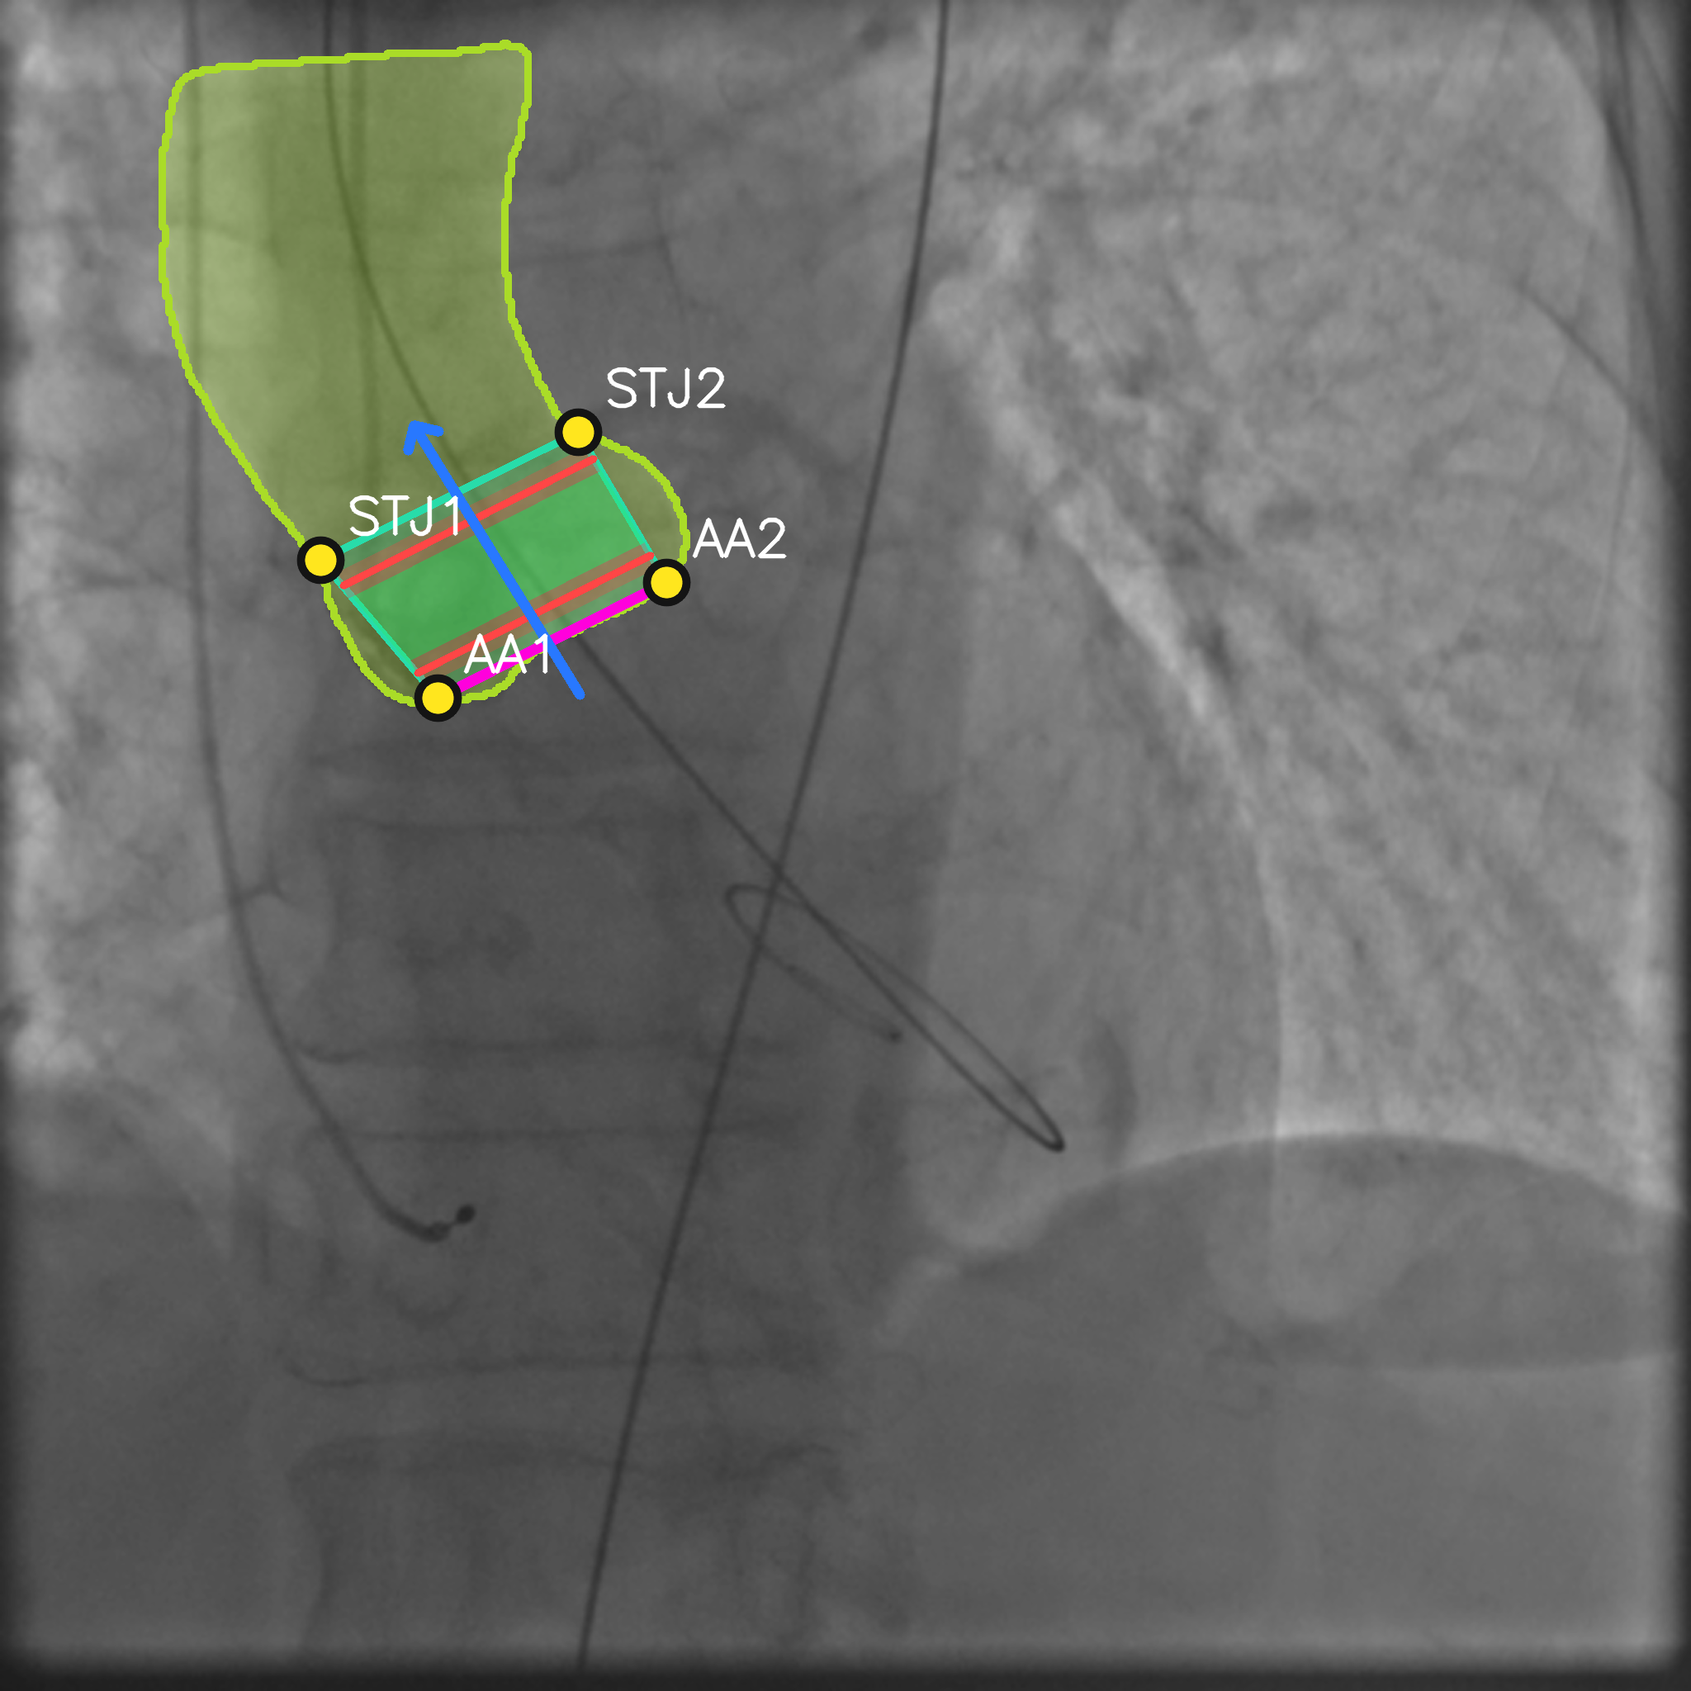
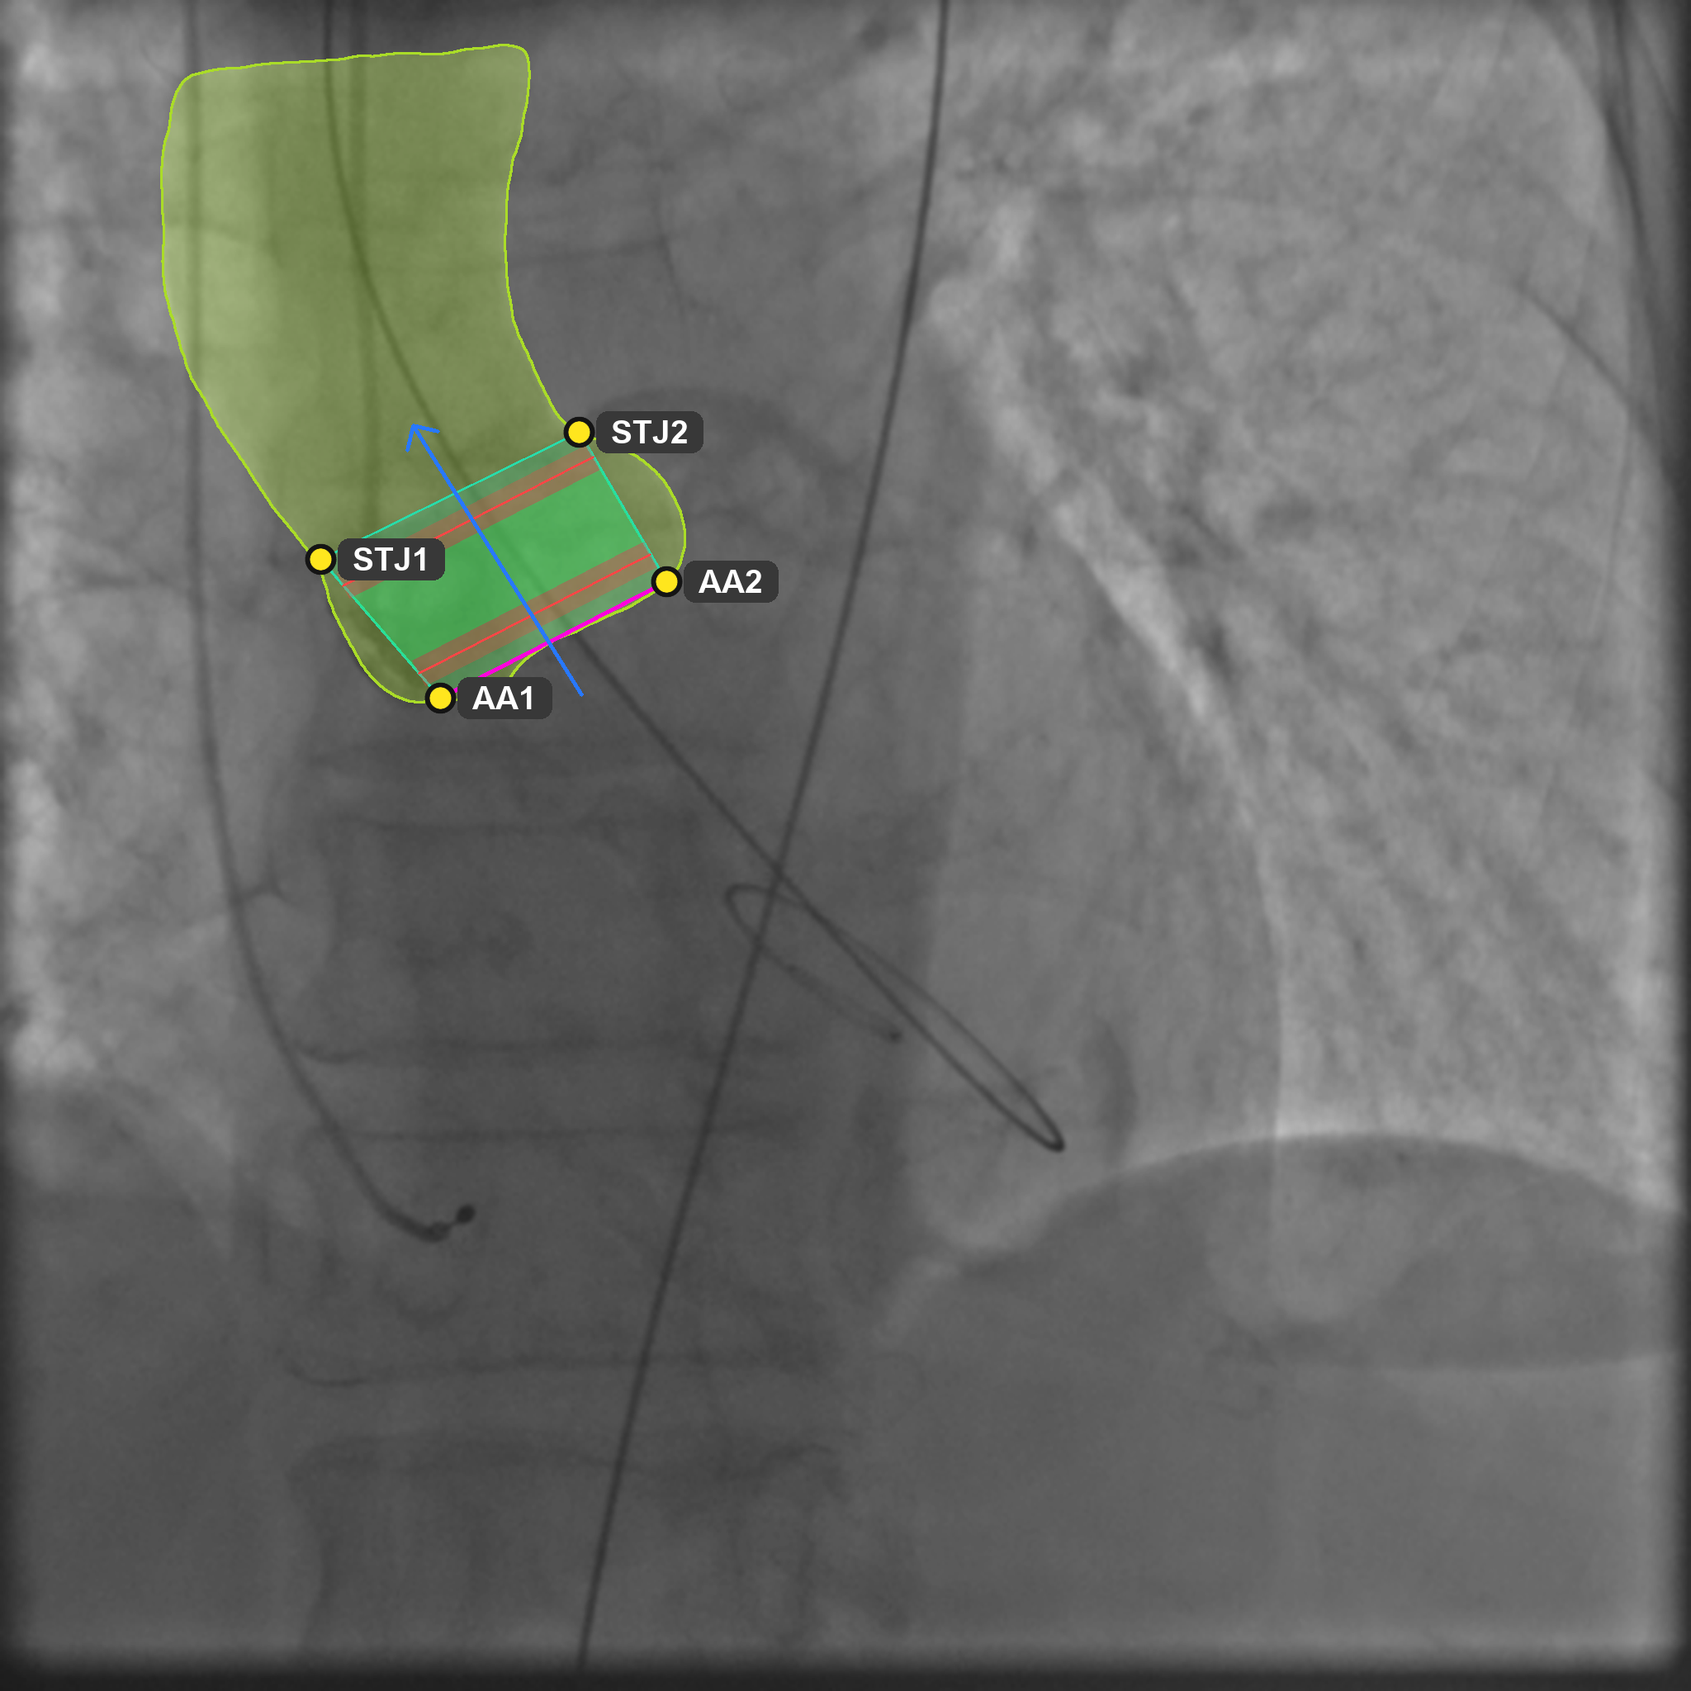
fix front figures 1 and 3

diff --git a/publication/scripts/generate_samples.py b/publication/scripts/generate_samples.py
@@ -28,23 +28,26 @@ DEFAULT_EXPORT_SIZE = None
 # Цвета из meta.json (Supervisely)
 CLASS_COLORS = {
     "mask": "#49BC4E",
-    "AA1": "#AEFF01",
-    "AA2": "#AEFF01",
-    "STJ1": "#AEFF01",
-    "STJ2": "#AEFF01",
+    "AA1": "#FFE61E",
+    "AA2": "#FFE61E",
+    "STJ1": "#FFE61E",
+    "STJ2": "#FFE61E",
 }
 
 # Стиль бейджей Supervisely
-BADGE_BG = (50, 50, 50, 200)       # тёмно-серый фон с прозрачностью
-BADGE_RADIUS = 3                    # скругление углов
-BADGE_PADDING_X = 6                 # горизонтальный отступ
-BADGE_PADDING_Y = 3                 # вертикальный отступ
-BADGE_ICON_SIZE = 8                 # размер иконки (треугольник из 3 точек)
-BADGE_ICON_GAP = 5                  # отступ между иконкой и текстом
-BADGE_FONT_SIZE = 12                # размер шрифта
-POINT_RADIUS = 4                    # радиус точки-аннотации
-MASK_CONTOUR_WIDTH = 2              # толщина контура маски
-MASK_FILL_OPACITY = 100             # прозрачность заливки маски (~0.39)
+POINT_RADIUS = 6
+BADGE_FONT_SIZE = 44
+BADGE_RADIUS = 4
+BADGE_PADDING_X = 8
+BADGE_PADDING_Y = 4
+BADGE_BG = (56, 56, 56, 208)
+BADGE_TEXT_COLOR = (255, 255, 255, 255)
+BADGE_ICON_SIZE = 14
+BADGE_ICON_GAP = 5
+MASK_FILL_OPACITY = 56
+MASK_CONTOUR_WIDTH = 2
+POINT_OUTLINE_WIDTH = 2
+POINT_OUTLINE_COLOR = (20, 20, 20, 255)
 
 
 def hex_to_rgb(hex_color):
@@ -64,16 +67,44 @@ def scale_px(value, render_scale, minimum=1):
     return max(minimum, int(round(value * render_scale)))
 
 
+def clamp_px(value, minimum=1, maximum=None):
+    px = int(round(value))
+    if maximum is not None:
+        px = min(px, maximum)
+    return max(minimum, px)
+
+
 def load_font(font_size):
     """Загрузка шрифта для меток."""
     font_paths = [
         "/usr/share/fonts/truetype/dejavu/DejaVuSans-Bold.ttf",
         "/usr/share/fonts/truetype/dejavu/DejaVuSans.ttf",
+        "C:/Windows/Fonts/arialbd.ttf",
+        "C:/Windows/Fonts/Arial.ttf",
     ]
     for fp in font_paths:
         if os.path.exists(fp):
             return ImageFont.truetype(fp, font_size)
     return ImageFont.load_default()
+
+
+def build_render_style(image_size):
+    width, height = image_size
+    short_side = max(1, min(width, height))
+    font_size = clamp_px(short_side * 0.032 * 0.6, minimum=6, maximum=72)
+    return {
+        "badge_radius": clamp_px(font_size * 0.35, minimum=3, maximum=18),
+        "badge_padding_x": clamp_px(font_size * 0.45, minimum=3, maximum=24),
+        "badge_padding_y": clamp_px(font_size * 0.28, minimum=2, maximum=18),
+        "badge_icon_size": clamp_px(font_size * 0.7, minimum=8, maximum=28),
+        "badge_icon_gap": clamp_px(font_size * 0.28, minimum=3, maximum=12),
+        "badge_font_size": font_size,
+        "point_radius": clamp_px(short_side * 0.0115 * 0.7, minimum=2, maximum=18),
+        "point_outline_width": clamp_px(font_size * 0.15, minimum=1, maximum=4),
+        "mask_contour_width": clamp_px(short_side * 0.004, minimum=1, maximum=6),
+        "label_gap": clamp_px(font_size * 0.55, minimum=4, maximum=28),
+        "label_margin": clamp_px(font_size * 0.35, minimum=3, maximum=18),
+    }
 
 
 def draw_supervisely_icon(draw, cx, cy, color_rgb, size=8):
@@ -93,6 +124,39 @@ def draw_supervisely_icon(draw, cx, cy, color_rgb, size=8):
     # Нижняя правая
     draw.ellipse([cx + half - dot_r, cy + half - dot_r - 1, cx + half + dot_r, cy + half + dot_r - 1],
                  fill=color_rgb + (255,))
+
+
+def draw_point_badge(draw, point_xy, label, font, style, canvas_size):
+    point_x, point_y = point_xy
+    canvas_w, canvas_h = canvas_size
+    text_bbox = draw.textbbox((0, 0), label, font=font)
+    text_w = text_bbox[2] - text_bbox[0]
+    text_h = text_bbox[3] - text_bbox[1]
+    badge_w = text_w + style["badge_padding_x"] * 2
+    badge_h = text_h + style["badge_padding_y"] * 2
+
+    badge_x = point_x + style["label_gap"]
+    if badge_x + badge_w > canvas_w - style["label_margin"]:
+        badge_x = point_x - style["label_gap"] - badge_w
+    badge_x = clamp_px(
+        badge_x,
+        minimum=style["label_margin"],
+        maximum=max(style["label_margin"], canvas_w - badge_w - style["label_margin"]),
+    )
+    badge_y = clamp_px(
+        point_y - badge_h // 2,
+        minimum=style["label_margin"],
+        maximum=max(style["label_margin"], canvas_h - badge_h - style["label_margin"]),
+    )
+
+    draw.rounded_rectangle(
+        [badge_x, badge_y, badge_x + badge_w, badge_y + badge_h],
+        radius=style["badge_radius"],
+        fill=BADGE_BG,
+    )
+    text_x = badge_x + style["badge_padding_x"]
+    text_y = badge_y + style["badge_padding_y"] - text_bbox[1]
+    draw.text((text_x, text_y), label, fill=BADGE_TEXT_COLOR, font=font)
 
 
 def draw_supervisely_badge(draw, x, y, label, color_rgb, font, style, anchor="left", show_icon=True):
@@ -130,8 +194,8 @@ def draw_supervisely_badge(draw, x, y, label, color_rgb, font, style, anchor="le
     else:
         text_x = x + style["badge_padding_x"]
 
-    text_y = y + (badge_h - text_h) // 2 - 1
-    draw.text((text_x, text_y), label, fill=(255, 255, 255, 255), font=font)
+    text_y = y + (badge_h - text_h) // 2 - text_bbox[1]
+    draw.text((text_x, text_y), label, fill=BADGE_TEXT_COLOR, font=font)
 
     return badge_w, badge_h
 
@@ -216,16 +280,9 @@ def draw_supervisely_style(img, ann_data, export_size=None, mask_path=None):
         img = img.resize(target_size, Image.Resampling.LANCZOS)
     W, H = img.size
 
-    style = {
-        "badge_radius": scale_px(BADGE_RADIUS, render_scale),
-        "badge_padding_x": scale_px(BADGE_PADDING_X, render_scale),
-        "badge_padding_y": scale_px(BADGE_PADDING_Y, render_scale),
-        "badge_icon_size": scale_px(BADGE_ICON_SIZE, render_scale),
-        "badge_icon_gap": scale_px(BADGE_ICON_GAP, render_scale),
-        "badge_font_size": scale_px(BADGE_FONT_SIZE, render_scale, minimum=8),
-        "point_radius": scale_px(POINT_RADIUS, render_scale),
-        "mask_contour_width": scale_px(MASK_CONTOUR_WIDTH, render_scale),
-    }
+    # Адаптивное масштабирование относительно базового размера (напр., 1024px)
+    # Если изображение 512px, всё будет в 2 раза меньше от базовых констант.
+    style = build_render_style((W, H))
     font = load_font(style["badge_font_size"])
 
     # --- Слой 1: маски (заливка + контур) ---
@@ -335,13 +392,14 @@ def draw_supervisely_style(img, ann_data, export_size=None, mask_path=None):
                 js_h = ann_data.get("height", orig_h)
                 x = int(round(pt_info["x"] * (W / js_w)))
                 y = int(round(pt_info["y"] * (H / js_h)))
+            # Точка: тёмная обводка + цветная заливка (как в render_implant_zone.py)
             r = style["point_radius"]
-            draw.ellipse([x-r-1, y-r-1, x+r+1, y+r+1], fill=(0, 0, 0, 255))
-            draw.ellipse([x-r, y-r, x+r, y+r], fill=rgb + (255,))
-            draw.ellipse([x-1, y-1, x+1, y+1], fill=(255, 255, 255, 255))
-            badge_x = x + r + 5
-            badge_y = max(2, y - scale_px(10, render_scale))
-            draw_supervisely_badge(draw, badge_x, badge_y, class_title, rgb, font, style, show_icon=False)
+            w = style["point_outline_width"]
+            draw.ellipse([x - r - w, y - r - w, x + r + w, y + r + w], fill=POINT_OUTLINE_COLOR)
+            draw.ellipse([x - r, y - r, x + r, y + r], fill=rgb + (255,))
+
+            # Текст справа-сверху от точки (без бейджа, белым цветом)
+            draw_point_badge(draw, (x, y), class_title, font, style, (W, H))
 
     # Supervisely точки
     for obj in ann_data.get("objects", []):
@@ -357,21 +415,14 @@ def draw_supervisely_style(img, ann_data, export_size=None, mask_path=None):
         x = int(round(pts[0][0] * render_scale))
         y = int(round(pts[0][1] * render_scale))
 
-        # Точка: чёрная обводка + цветная заливка + белый центр
+        # Точка: тёмная обводка + цветная заливка (как в render_implant_zone.py)
         r = style["point_radius"]
-        draw.ellipse([x-r-1, y-r-1, x+r+1, y+r+1],
-                     fill=(0, 0, 0, 255))
-        draw.ellipse([x-r, y-r, x+r, y+r],
-                     fill=rgb + (255,))
-        draw.ellipse([x-1, y-1, x+1, y+1],
-                     fill=(255, 255, 255, 255))
+        w = style["point_outline_width"]
+        draw.ellipse([x - r - w, y - r - w, x + r + w, y + r + w], fill=POINT_OUTLINE_COLOR)
+        draw.ellipse([x - r, y - r, x + r, y + r], fill=rgb + (255,))
 
-        # Бейдж справа от точки
-        badge_x = x + r + 5
-        badge_y = y - scale_px(10, render_scale)
-        # Ограничиваем
-        badge_y = max(2, badge_y)
-        draw_supervisely_badge(draw, badge_x, badge_y, class_title, rgb, font, style, show_icon=False)
+        # Текст справа-сверху от точки (без бейджа, белым цветом)
+        draw_point_badge(draw, (x, y), class_title, font, style, (W, H))
 
     return combined.convert("RGB")
 

diff --git a/publication/scripts/render_implant_zone.py b/publication/scripts/render_implant_zone.py
@@ -11,6 +11,7 @@ import numpy as np
 import torch
 import torch.nn.functional as F
 import yaml
+from PIL import Image, ImageDraw, ImageFont
 from torchvision import models as tv_models
 
 ROOT_DIR = Path(__file__).resolve().parents[2]
@@ -26,6 +27,10 @@ IMAGE_EXTS = {".png", ".jpg", ".jpeg", ".bmp", ".tif", ".tiff"}
 IMAGENET_MEAN = np.array([0.485, 0.456, 0.406], dtype=np.float32)
 IMAGENET_STD = np.array([0.229, 0.224, 0.225], dtype=np.float32)
 POINT_NAMES = ["AA1", "AA2", "STJ1", "STJ2"]
+LABEL_BG_COLOR = (56, 56, 56, 208)
+LABEL_TEXT_COLOR = (255, 255, 255, 255)
+POINT_FILL_COLOR = (30, 230, 255)
+POINT_OUTLINE_COLOR = (20, 20, 20)
 
 
 def find_default_weights() -> Path | None:
@@ -74,7 +79,7 @@ def parse_args() -> argparse.Namespace:
         "--images",
         dest="input_path",
         type=Path,
-        default=ROOT_DIR / "publication" / "figures",
+        default=ROOT_DIR / "publication" / "figures" / "figure_1",
         help="Input image file or directory with images.",
     )
     parser.add_argument(
@@ -318,6 +323,83 @@ def scaled_thickness(base: int, render_scale: float) -> int:
     return max(1, int(round(base * render_scale)))
 
 
+def clamp_px(value: float, minimum: int = 1, maximum: int | None = None) -> int:
+    px = int(round(value))
+    if maximum is not None:
+        px = min(px, maximum)
+    return max(minimum, px)
+
+
+def load_font(font_size: int) -> ImageFont.FreeTypeFont | ImageFont.ImageFont:
+    font_paths = [
+        "/usr/share/fonts/truetype/dejavu/DejaVuSans-Bold.ttf",
+        "/usr/share/fonts/truetype/dejavu/DejaVuSans.ttf",
+        "C:/Windows/Fonts/arialbd.ttf",
+        "C:/Windows/Fonts/Arial.ttf",
+    ]
+    for font_path in font_paths:
+        candidate = Path(font_path)
+        if candidate.is_file():
+            return ImageFont.truetype(str(candidate), font_size)
+    return ImageFont.load_default()
+
+
+def build_point_style(canvas_shape: Tuple[int, int, int]) -> dict:
+    height, width = canvas_shape[:2]
+    short_side = max(1, min(height, width))
+    font_size = clamp_px(short_side * 0.032 * 0.6, minimum=6, maximum=72)
+    return {
+        "badge_font_size": font_size,
+        "badge_radius": clamp_px(font_size * 0.35, minimum=3, maximum=18),
+        "badge_padding_x": clamp_px(font_size * 0.45, minimum=3, maximum=24),
+        "badge_padding_y": clamp_px(font_size * 0.28, minimum=2, maximum=18),
+        "label_gap": clamp_px(font_size * 0.55, minimum=4, maximum=28),
+        "label_margin": clamp_px(font_size * 0.35, minimum=3, maximum=18),
+        "point_radius": clamp_px(short_side * 0.0115 * 0.7, minimum=2, maximum=18),
+        "point_outline_width": clamp_px(font_size * 0.15, minimum=1, maximum=4),
+    }
+
+
+def draw_label_badge(
+    draw: ImageDraw.ImageDraw,
+    point_xy: Tuple[int, int],
+    label: str,
+    font: ImageFont.FreeTypeFont | ImageFont.ImageFont,
+    style: dict,
+    canvas_size: Tuple[int, int],
+) -> None:
+    point_x, point_y = point_xy
+    canvas_w, canvas_h = canvas_size
+    text_bbox = draw.textbbox((0, 0), label, font=font)
+    text_w = text_bbox[2] - text_bbox[0]
+    text_h = text_bbox[3] - text_bbox[1]
+    badge_w = text_w + style["badge_padding_x"] * 2
+    badge_h = text_h + style["badge_padding_y"] * 2
+
+    badge_x = point_x + style["label_gap"]
+    if badge_x + badge_w > canvas_w - style["label_margin"]:
+        badge_x = point_x - style["label_gap"] - badge_w
+    badge_x = clamp_px(
+        badge_x,
+        minimum=style["label_margin"],
+        maximum=max(style["label_margin"], canvas_w - badge_w - style["label_margin"]),
+    )
+    badge_y = clamp_px(
+        point_y - badge_h // 2,
+        minimum=style["label_margin"],
+        maximum=max(style["label_margin"], canvas_h - badge_h - style["label_margin"]),
+    )
+
+    draw.rounded_rectangle(
+        [badge_x, badge_y, badge_x + badge_w, badge_y + badge_h],
+        radius=style["badge_radius"],
+        fill=LABEL_BG_COLOR,
+    )
+    text_x = badge_x + style["badge_padding_x"]
+    text_y = badge_y + style["badge_padding_y"] - text_bbox[1]
+    draw.text((text_x, text_y), label, fill=LABEL_TEXT_COLOR, font=font)
+
+
 def draw_zone_geometry(canvas: np.ndarray, points_xy: np.ndarray, render_scale: float = 1.0) -> np.ndarray:
     aa1, aa2, stj1, stj2 = [points_xy[idx].astype(np.float32) for idx in range(4)]
     annulus_mid = (aa1 + aa2) * 0.5
@@ -422,26 +504,26 @@ def draw_zone_geometry(canvas: np.ndarray, points_xy: np.ndarray, render_scale: 
 
 
 def draw_points(canvas: np.ndarray, points_xy: np.ndarray, render_scale: float = 1.0) -> np.ndarray:
-    radius = scaled_thickness(6, render_scale)
-    outline = scaled_thickness(2, render_scale)
-    offset = scaled_thickness(8, render_scale)
-    font_scale = 0.52 * render_scale
-    text_thickness = scaled_thickness(1, render_scale)
+    style = build_point_style(canvas.shape)
+    font = load_font(style["badge_font_size"])
     for idx, name in enumerate(POINT_NAMES):
         x, y = np.round(points_xy[idx]).astype(int)
-        cv2.circle(canvas, (x, y), radius, (30, 230, 255), thickness=-1, lineType=cv2.LINE_AA)
-        cv2.circle(canvas, (x, y), radius, (20, 20, 20), thickness=outline, lineType=cv2.LINE_AA)
-        cv2.putText(
+        cv2.circle(canvas, (x, y), style["point_radius"], POINT_FILL_COLOR, thickness=-1, lineType=cv2.LINE_AA)
+        cv2.circle(
             canvas,
-            name,
-            (x + offset, y - offset),
-            cv2.FONT_HERSHEY_SIMPLEX,
-            font_scale,
-            (255, 255, 255),
-            text_thickness,
-            cv2.LINE_AA,
+            (x, y),
+            style["point_radius"],
+            POINT_OUTLINE_COLOR,
+            thickness=style["point_outline_width"],
+            lineType=cv2.LINE_AA,
         )
-    return canvas
+    pil_canvas = Image.fromarray(cv2.cvtColor(canvas, cv2.COLOR_BGR2RGB)).convert("RGBA")
+    draw = ImageDraw.Draw(pil_canvas)
+    canvas_size = (pil_canvas.width, pil_canvas.height)
+    for idx, name in enumerate(POINT_NAMES):
+        x, y = np.round(points_xy[idx]).astype(int)
+        draw_label_badge(draw, (x, y), name, font, style, canvas_size)
+    return cv2.cvtColor(np.array(pil_canvas.convert("RGB")), cv2.COLOR_RGB2BGR)
 
 
 def render_overlay(
